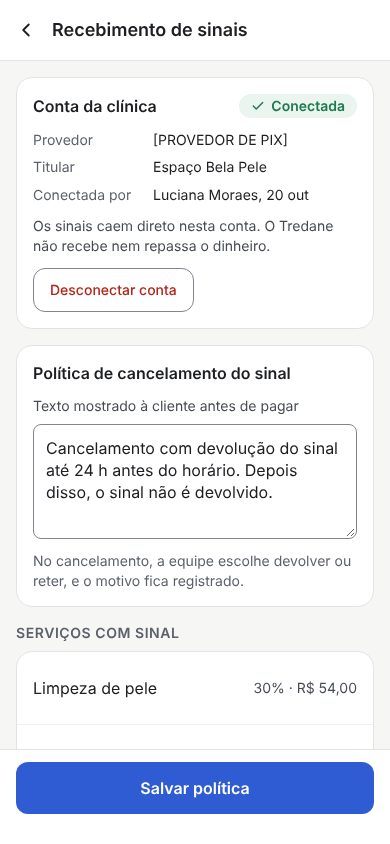
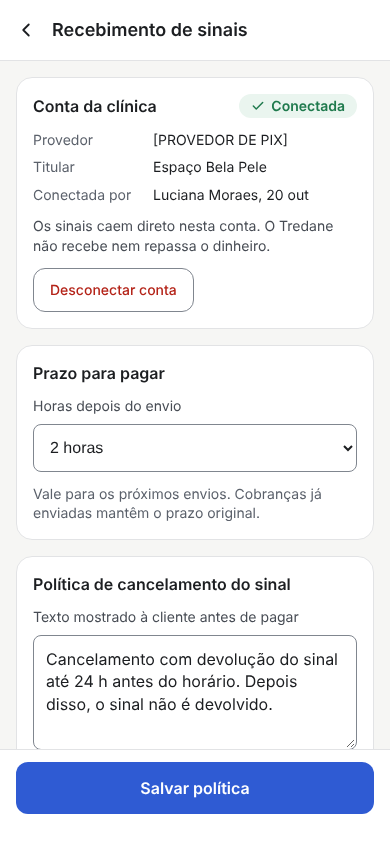
Sinal por Pix: M-34 (agendar com sinal) e prazo em M-33
Claude-Session: https://claude.ai/code/session_018LoKpmkZfcb6hBei4QRSz9

diff --git a/docs/design/mobile/AgendarSinal.dc.html b/docs/design/mobile/AgendarSinal.dc.html
@@ -1,0 +1,77 @@
+<!doctype html>
+<html lang="pt-BR">
+<head>
+<meta charset="utf-8">
+<title>Agendar com sinal — celular</title>
+<script src="./support.js"></script>
+</head>
+<body>
+<x-dc>
+<helmet>
+<link rel="preconnect" href="https://fonts.googleapis.com">
+<link href="https://fonts.googleapis.com/css2?family=Inter:wght@400;500;600&amp;display=swap" rel="stylesheet">
+<style>
+body{margin:0}
+a{color:#2F5BD3}a:hover{color:#1E43A8}
+button,select,input,textarea{font:inherit}
+button:focus-visible,a:focus-visible,select:focus-visible,input:focus-visible,textarea:focus-visible{outline:2px solid #2F5BD3;outline-offset:2px}
+</style>
+</helmet>
+<div style="width: 390px; height: 844px; box-sizing: border-box; background: #F6F6F4; color: #1C1E21; font-family: Inter, system-ui, sans-serif; font-size: 16px; line-height: 1.4; display: flex; flex-direction: column; overflow: hidden">
+
+<header style="background: #FFFFFF; border-bottom: 1px solid #E2E3E5; display: flex; align-items: center; gap: 4px; padding: 8px 4px">
+<a href="Contato.dc.html" aria-label="Fechar sem agendar" style="width: 44px; height: 44px; display: flex; align-items: center; justify-content: center; color: #1C1E21; border-radius: 999px"><svg aria-hidden="true" width="22" height="22" viewBox="0 0 24 24" fill="none" stroke="currentColor" stroke-width="2" stroke-linecap="round"><path d="M6 6l12 12"></path><path d="M18 6L6 18"></path></svg></a>
+<div style="display: flex; flex-direction: column"><h1 style="margin: 0; font-size: 18px; font-weight: 600">Agendar horário</h1><span style="font-size: 14px; color: #5B616B">Juliana Prado</span></div>
+</header>
+
+<div style="flex: 1; overflow-y: auto; padding: 16px; display: flex; flex-direction: column; gap: 16px">
+
+<label style="display: flex; flex-direction: column; gap: 8px; font-size: 14px; color: #474C54">Serviço
+<select style="height: 48px; padding: 0 12px; border: 1px solid #80868F; border-radius: 8px; background: #FFFFFF; font-size: 16px; color: #1C1E21"><option>Depilação a laser — pernas</option><option selected>Limpeza de pele</option><option>Peeling</option></select></label>
+<span style="margin-top: -12px; font-size: 14px; color: #474C54">45 min · profissional habilitado + sala de estética</span>
+
+<label style="display: flex; flex-direction: column; gap: 8px; font-size: 14px; color: #474C54">Profissional
+<select style="height: 48px; padding: 0 12px; border: 1px solid #80868F; border-radius: 8px; background: #FFFFFF; font-size: 16px; color: #1C1E21"><option selected>Qualquer disponível</option><option>Dra. Paula Reis</option><option>Dr. Tiago Nunes</option></select></label>
+
+<fieldset style="margin: 0; padding: 0; border: 0; display: flex; flex-direction: column; gap: 8px">
+<legend style="padding: 0 0 8px; font-size: 14px; color: #474C54">Dia</legend>
+<div style="display: flex; gap: 8px; overflow-x: auto; margin: 0 -16px; padding: 0 16px">
+<button type="button" aria-pressed="false" style="flex: none; width: 60px; height: 64px; border: 1px solid #80868F; border-radius: 12px; background: #FFFFFF; cursor: pointer; display: flex; flex-direction: column; align-items: center; justify-content: center"><span style="font-size: 12px; color: #5B616B">qui</span><span style="font-weight: 600">29</span></button>
+<button type="button" aria-pressed="true" style="flex: none; width: 60px; height: 64px; border: 2px solid #2F5BD3; border-radius: 12px; background: #EEF2FC; cursor: pointer; display: flex; flex-direction: column; align-items: center; justify-content: center"><span style="font-size: 12px; color: #1E43A8">sex</span><span style="font-weight: 600; color: #1E43A8">30</span></button>
+<button type="button" aria-pressed="false" style="flex: none; width: 60px; height: 64px; border: 1px solid #80868F; border-radius: 12px; background: #FFFFFF; cursor: pointer; display: flex; flex-direction: column; align-items: center; justify-content: center"><span style="font-size: 12px; color: #5B616B">sáb</span><span style="font-weight: 600">31</span></button>
+<button type="button" aria-pressed="false" style="flex: none; width: 60px; height: 64px; border: 1px solid #80868F; border-radius: 12px; background: #FFFFFF; cursor: pointer; display: flex; flex-direction: column; align-items: center; justify-content: center"><span style="font-size: 12px; color: #5B616B">seg</span><span style="font-weight: 600">2</span></button>
+<button type="button" aria-pressed="false" style="flex: none; width: 60px; height: 64px; border: 1px solid #80868F; border-radius: 12px; background: #FFFFFF; cursor: pointer; display: flex; flex-direction: column; align-items: center; justify-content: center"><span style="font-size: 12px; color: #5B616B">ter</span><span style="font-weight: 600">3</span></button>
+</div>
+</fieldset>
+
+<fieldset style="margin: 0; padding: 0; border: 0; display: flex; flex-direction: column; gap: 8px">
+<legend style="padding: 0 0 8px; font-size: 14px; color: #474C54">Horários livres para profissional e sala</legend>
+<button type="button" aria-pressed="false" style="display: flex; justify-content: space-between; align-items: center; height: 52px; padding: 0 16px; border: 1px solid #80868F; border-radius: 12px; background: #FFFFFF; cursor: pointer"><span style="font-weight: 600">13:00</span><span style="font-size: 14px; color: #474C54">Dr. Tiago · Sala 2</span></button>
+<button type="button" aria-pressed="true" style="display: flex; justify-content: space-between; align-items: center; height: 52px; padding: 0 13px; border: 2px solid #2F5BD3; border-radius: 12px; background: #EEF2FC; cursor: pointer"><span style="font-weight: 600; color: #1E43A8">16:00</span><span style="font-size: 14px; color: #474C54">Dr. Tiago · Sala 2</span></button>
+<button type="button" aria-pressed="false" style="display: flex; justify-content: space-between; align-items: center; height: 52px; padding: 0 16px; border: 1px solid #80868F; border-radius: 12px; background: #FFFFFF; cursor: pointer"><span style="font-weight: 600">17:00</span><span style="font-size: 14px; color: #474C54">Dr. Tiago · Sala 2</span></button>
+</fieldset>
+
+<div style="background: #FFFFFF; border: 1px solid #E2E3E5; border-radius: 12px; padding: 12px; display: flex; flex-direction: column; gap: 8px">
+<label style="display: flex; align-items: center; gap: 12px; min-height: 44px"><input type="checkbox" checked style="width: 22px; height: 22px">Enviar confirmação pelo WhatsApp</label>
+<label style="display: flex; flex-direction: column; gap: 8px; font-size: 14px; color: #5B616B">Mensagem (editável)
+<textarea rows="3" style="padding: 12px 12px; border: 1px solid #80868F; border-radius: 8px; font-size: 16px; color: #1C1E21; resize: none">Olá, Juliana! Seu horário está confirmado: sexta, 30/10, às 16:00, com Dr. Tiago Nunes.</textarea></label>
+<span style="font-size: 14px; color: #5B616B">Se o envio falhar, o agendamento continua confirmado.</span>
+</div>
+</div>
+
+<div style="flex: none; background: #FFFFFF; border-top: 1px solid #E2E3E5; padding: 12px 16px 30px; display: flex; flex-direction: column; gap: 8px">
+<span role="note" style="font-size: 14px; color: #474C54">Este serviço exige sinal de <strong style="font-weight: 600">R$ 54,00</strong> por Pix, na conta da clínica. O horário só fica reservado depois do pagamento. Prazo para pagar: 2 horas.</span>
+<button type="button" style="width: 100%; height: 52px; border: 0; border-radius: 12px; background: #2F5BD3; color: #FFFFFF; font-weight: 600; font-size: 16px; cursor: pointer">Enviar sinal de R$ 54,00</button>
+<button type="button" style="width: 100%; min-height: 44px; border: 0; background: transparent; color: #1E43A8; font-size: 14px; font-weight: 600; cursor: pointer">Confirmar sem sinal (informar motivo)</button>
+</div>
+</div>
+</x-dc>
+<script type="text/x-dc" data-dc-script data-props='{"$preview":{"width":390,"height":844}}'>
+class Component extends DCLogic {
+renderVals() {
+return {};
+}
+}
+</script>
+</body>
+</html>

diff --git a/docs/design/mobile/Recebimento.dc.html b/docs/design/mobile/Recebimento.dc.html
@@ -39,6 +39,13 @@ button:focus-visible,a:focus-visible{outline:2px solid #2F5BD3;outline-offset:2p
 <button type="button" style="align-self: flex-start; min-height: 44px; padding: 0 16px; border: 1px solid #80868F; border-radius: 12px; background: #FFFFFF; color: #B42318; font-size: 14px; font-weight: 500; cursor: pointer">Desconectar conta</button>
 </section>
 
+<section aria-labelledby="z-t" style="background: #FFFFFF; border: 1px solid #E2E3E5; border-radius: 16px; padding: 16px; display: flex; flex-direction: column; gap: 12px">
+<h2 id="z-t" style="margin: 0; font-size: 16px; font-weight: 600">Prazo para pagar</h2>
+<label style="display: flex; flex-direction: column; gap: 8px; font-size: 14px; color: #474C54">Horas depois do envio
+<select style="height: 48px; padding: 0 12px; border: 1px solid #80868F; border-radius: 8px; background: #FFFFFF; font-size: 16px; color: #1C1E21"><option>1 hora</option><option selected>2 horas</option><option>4 horas</option><option>12 horas</option><option>24 horas</option></select></label>
+<span style="font-size: 14px; color: #5B616B">Vale para os próximos envios. Cobranças já enviadas mantêm o prazo original.</span>
+</section>
+
 <section aria-labelledby="p-t" style="background: #FFFFFF; border: 1px solid #E2E3E5; border-radius: 16px; padding: 16px; display: flex; flex-direction: column; gap: 12px">
 <h2 id="p-t" style="margin: 0; font-size: 16px; font-weight: 600">Política de cancelamento do sinal</h2>
 <label style="display: flex; flex-direction: column; gap: 8px; font-size: 14px; color: #474C54">Texto mostrado à cliente antes de pagar

diff --git a/docs/product/ux-ui.md b/docs/product/ux-ui.md
@@ -216,7 +216,7 @@ Ver seção 6.2.
 
 **Estado:** telas **propostas** sobre decisões **Confirmadas** (DEC-047, [sinal.md](sinal.md), REQ-076 a REQ-082).
 
-- **Agendar (M-04):** com serviço que exige sinal, o rodapé mostra “Sinal de R$ X · horário não fica reservado até o pagamento” e o botão **Enviar sinal de R$ X**. Sem conta de recebimento, o botão fica desabilitado com o motivo.
+- **Agendar (M-04, variante M-34):** com serviço que exige sinal, o rodapé mostra “Sinal de R$ X · horário não fica reservado até o pagamento” e o botão **Enviar sinal de R$ X**. Sem conta de recebimento, o botão fica desabilitado com o motivo.
 - **Na conversa (M-31):** a mensagem de cobrança aparece como enviada, com um cartão interno do estado: **Aguardando sinal** (prazo restante, **Copiar Pix**, **Cancelar cobrança**), **Pago** (confirmado para o horário), **Expirada** (**Enviar novo sinal**), **Estorno solicitado/Devolvido/Estorno falhou**.
 - **Pago sem horário (M-32):** faixa de alerta na conversa e no Acompanhamento, com **Escolher outro horário** e **Devolver sinal**.
 - **Recebimento (M-33):** na área Clínica, só para a responsável: estado da conta conectada, **Conectar conta** e **Desconectar**, política de cancelamento do sinal.
@@ -323,7 +323,7 @@ Ver seção 6.2.
 | TEL-10 Suporte do Tredane | JRN-08 | REQ-060 a REQ-066 | AC-27 a AC-35 |
 | TEL-09 Clínica (configuração) | JRN-08 | REQ-002, REQ-003, REQ-004, REQ-051, REQ-052, REQ-071 | AC-03, AC-14, AC-38, AC-39, AC-40 |
 
-Artboards do canvas mobile: M-01 e M-02 → TEL-01; M-03 → TEL-01 (detalhes); M-04 → TEL-05; M-05 → TEL-03 e TEL-02 (folha inferior); M-06 e M-13 → TEL-04; M-07 e M-08 → TEL-07; M-09 e M-10 → TEL-08; M-11 e M-12 → TEL-01 (janela de 24 h e modelos); M-14 → avisos e instalação (PWA); M-27 a M-29 → TEL-10; M-31 a M-33 → TEL-11; M-15 a M-26 → TEL-09 (M-20 a M-22: cadastro de profissionais, salas e equipamentos; M-19 e M-23 a M-26: WhatsApp). As telas M-01 a M-14 mostram a visão do Atendente; o Responsável vê as mesmas telas com a aba Clínica na barra inferior (M-15 a M-19).
+Artboards do canvas mobile: M-01 e M-02 → TEL-01; M-03 → TEL-01 (detalhes); M-04 → TEL-05; M-05 → TEL-03 e TEL-02 (folha inferior); M-06 e M-13 → TEL-04; M-07 e M-08 → TEL-07; M-09 e M-10 → TEL-08; M-11 e M-12 → TEL-01 (janela de 24 h e modelos); M-14 → avisos e instalação (PWA); M-27 a M-29 → TEL-10; M-31 a M-34 → TEL-11; M-15 a M-26 → TEL-09 (M-20 a M-22: cadastro de profissionais, salas e equipamentos; M-19 e M-23 a M-26: WhatsApp). As telas M-01 a M-14 mostram a visão do Atendente; o Responsável vê as mesmas telas com a aba Clínica na barra inferior (M-15 a M-19).
 
 ## 10. Critérios de aceite de UX
 

diff --git a/docs/design/screens.md b/docs/design/screens.md
@@ -49,7 +49,8 @@ Cada linha liga um mock a sua especificação. **A especificação manda:** em c
 | M-29 | `SuporteAviso` | TEL-10 | REQ-065, REQ-066 · AC-34, AC-35 | Aviso ao usuário representado (faixa em Conversas) com **Solicitar encerramento** | — |
 | M-31 | `SinalConversa` | TEL-11 | JRN-16 · REQ-078, REQ-081, REQ-082 · AC-46, AC-49, AC-50 | Mensagem de cobrança enviada, cartão **Aguardando sinal** (horário, prazo, recebe na conta da clínica, aviso de horário não reservado), **Copiar Pix**, **Cancelar cobrança**; demais estados do cartão | M-02, M-32 |
 | M-32 | `SinalSemHorario` | TEL-11 | JRN-16 · REQ-079, REQ-080 · AC-47, AC-48 | Alerta **Sinal pago, mas o horário foi ocupado**, próximos horários, **Confirmar com o sinal pago**, **Devolver sinal** | M-02 |
-| M-33 | `Recebimento` | TEL-11 | JRN-16 · REQ-076, REQ-077 · AC-44, AC-45 | Conta da clínica conectada (provedor a definir), política de cancelamento do sinal, serviços com sinal; só responsável | M-15 |
+| M-33 | `Recebimento` | TEL-11 | JRN-16 · REQ-076, REQ-077 · AC-44, AC-45 | Conta da clínica conectada (provedor a definir), política de cancelamento do sinal, prazo para pagar (padrão 2 horas), serviços com sinal; só responsável | M-15 |
+| M-34 | `AgendarSinal` | TEL-11 | JRN-16 · REQ-078 · AC-46, AC-51 | Variante de M-04 com serviço que exige sinal: aviso de valor e de horário não reservado, **Enviar sinal de R$ 54,00** e **Confirmar sem sinal (informar motivo)** | M-31, M-02 |
 
 ## Estados que a UI real precisa ter e os mocks mostram em uma tela só
 

diff --git a/docs/design/README.md b/docs/design/README.md
@@ -17,7 +17,7 @@ Os mocks mostram **um** estado por tela e dados fictícios. Estados de carregame
 
 | Caminho | Conteúdo |
 | --- | --- |
-| [screens.md](screens.md) | Índice das telas: ID (M-01 a M-33; M-30 vem com o PR de respostas da IA), arquivo, tela da spec, jornadas, requisitos, cenários de aceite, o que cada mock mostra e para onde navega; estados que faltam em cada tela |
+| [screens.md](screens.md) | Índice das telas: ID (M-01 a M-34; M-30 vem com o PR de respostas da IA), arquivo, tela da spec, jornadas, requisitos, cenários de aceite, o que cada mock mostra e para onde navega; estados que faltam em cada tela |
 | [components.md](components.md) | Componentes recorrentes (cabeçalho, barra inferior, chips, balão, estado de envio, bloco de IA, folha inferior, formulário etc.) e regras gerais de implementação |
 | [tokens.json](tokens.json) · `tokens.css` | Tokens v0.2.0 (fonte única, em JSON) e variáveis CSS geradas a partir dele |
 | [catalog/index.html](catalog/index.html) | Catálogo: tokens e componentes com todos os estados (abra no navegador) |

diff --git a/docs/MVP.md b/docs/MVP.md
@@ -64,7 +64,7 @@ O [épico #1](https://github.com/intentzero/tredane/issues/1) acompanha a defini
 - [Cenários de aceite](product/acceptance.md)
 - [Fronteira de dados entre clínicas](product/tenant-boundaries.md)
 - [Especificação de UI/UX do painel](product/ux-ui.md) (telas, estados visíveis e critérios de UX)
-- [Mocks e guia de implementação da interface](design/README.md): telas mobile M-01 a M-33, componentes, tokens e previews
+- [Mocks e guia de implementação da interface](design/README.md): telas mobile M-01 a M-34, componentes, tokens e previews
 - [Registro de hipóteses a validar](product/validation-register.md) e [auditoria do Issue #1 (23/10/2026)](product/definition-audit-2026-10-23.md) — acompanhamento, não decisões novas.
 
 ## Documentação de arquitetura e execução
